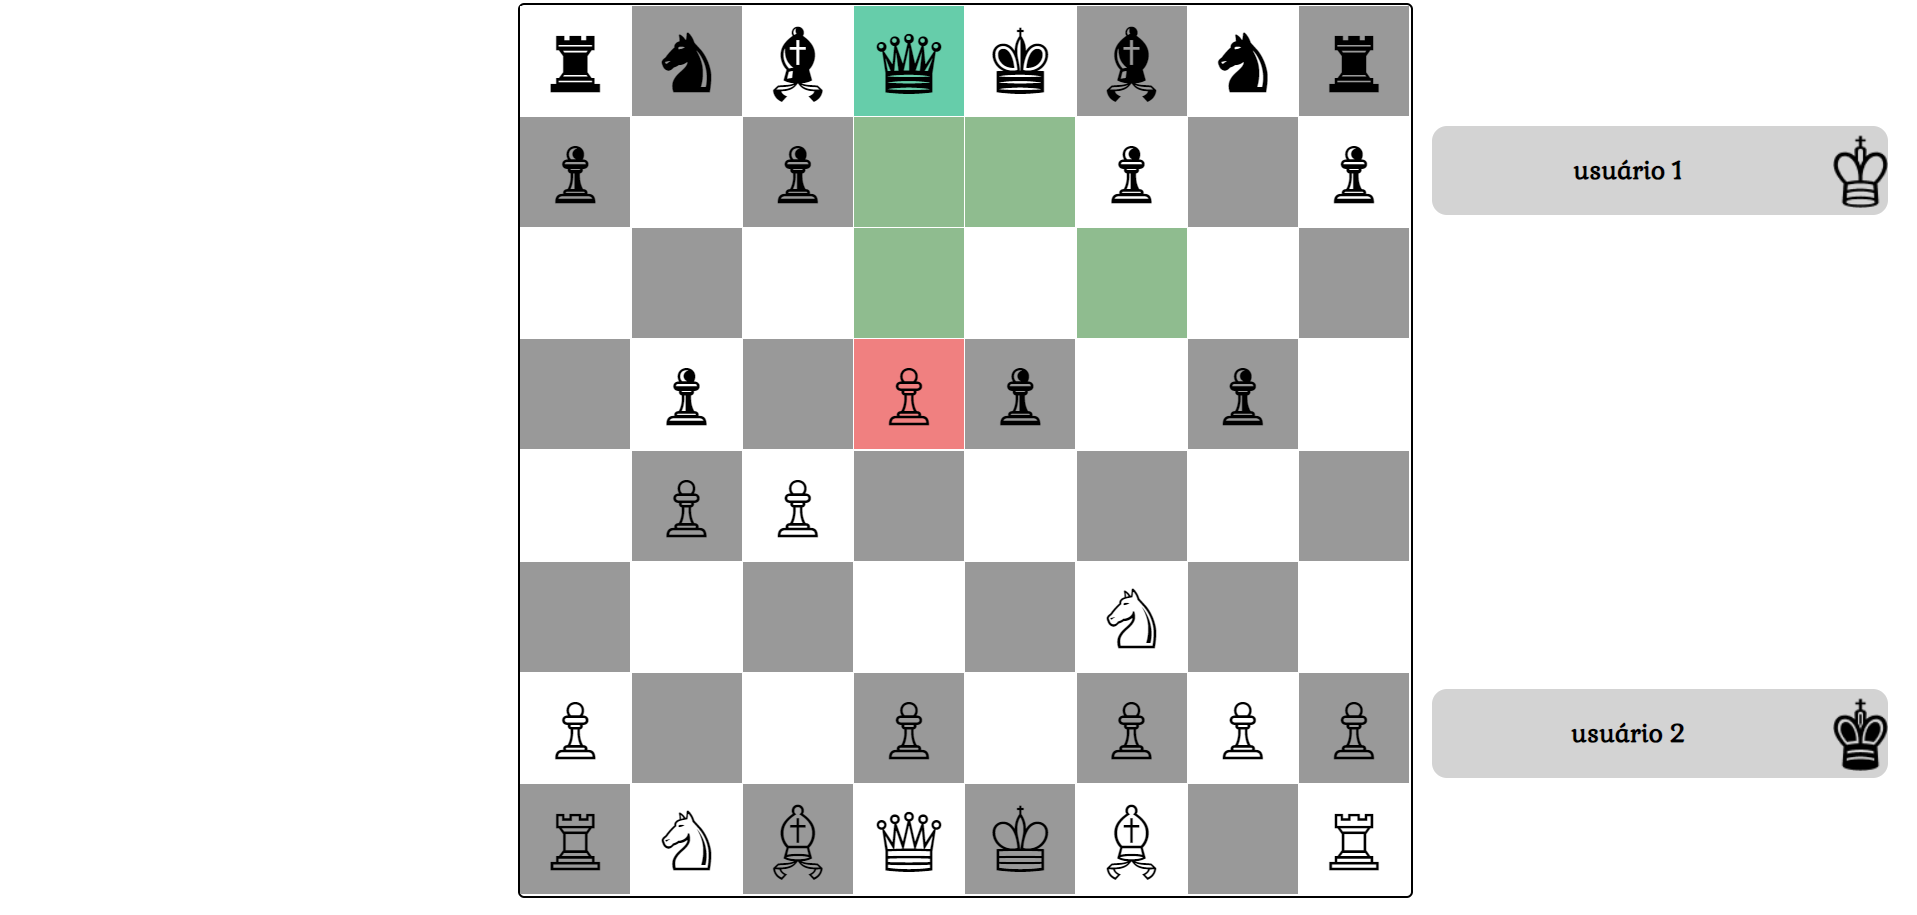
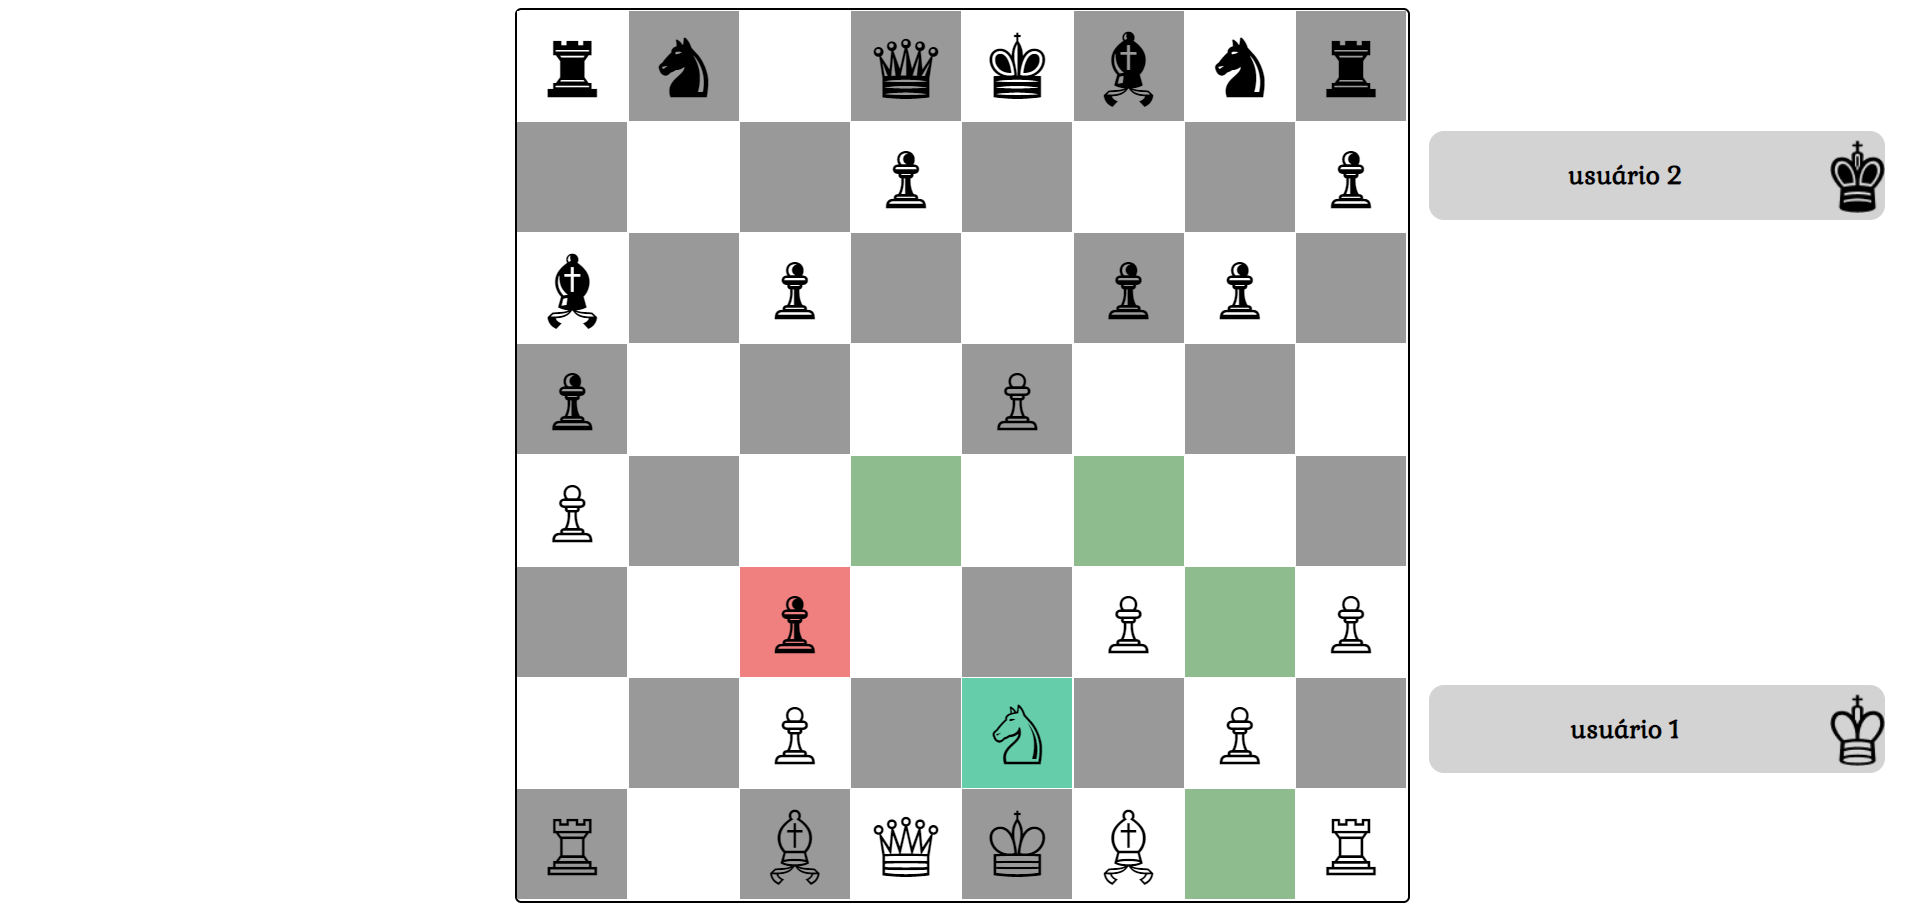
correção da posição dos nomes dos usuarios no jogo

diff --git a/ProjetoXadrez/Index.html b/ProjetoXadrez/Index.html
@@ -16,13 +16,13 @@
 <body>
 
     <div class="areaJogador">
-        <div class="campo" id="areaJogador1">
-            <p id="nomeJodador1"></p>
-            <div class="imgPeca"><img src="icone/1.png" alt="Peça Branca"></div>
-        </div>
         <div class="campo" id="areaJogador2">
             <p id="nomeJodador2"></p>
             <div class="imgPeca"><img src="icone/2.png" alt="Peça Preta"></div>
+        </div>
+        <div class="campo" id="areaJogador1">
+            <p id="nomeJodador1"></p>
+            <div class="imgPeca"><img src="icone/1.png" alt="Peça Branca"></div>
         </div>
     </div>
 
@@ -42,7 +42,7 @@
     <div id="modalFundoXeque" class="hide"></div>
     <div id="modalXeque" class="hide">
         <div id="vencedor"></div>
-        <div ><button id="btnReniciar" class="btnModal" type="button">Reniciar Partida</button></div>
+        <div><button id="btnReniciar" class="btnModal" type="button">Reniciar Partida</button></div>
     </div>
 
 

diff --git a/ProjetoXadrez/Css/formatacao_area_jogador.css b/ProjetoXadrez/Css/formatacao_area_jogador.css
@@ -14,7 +14,7 @@
 #areaJogador1 {
     background-color: rgb(211, 211, 211);
     display: flex;
-    margin-top: 27%;
+    margin-top: 102%;
     font-family: 'Gabriela', serif;
     font-weight: bold;
     font-size: 15pt;
@@ -24,7 +24,7 @@
 #areaJogador2{
     background-color: rgb(211, 211, 211);
     display: flex;
-    margin-top: 104%;
+    margin-top: 27%;
     font-family: 'Gabriela', serif;
     font-weight: bold;
     font-size: 15pt;
